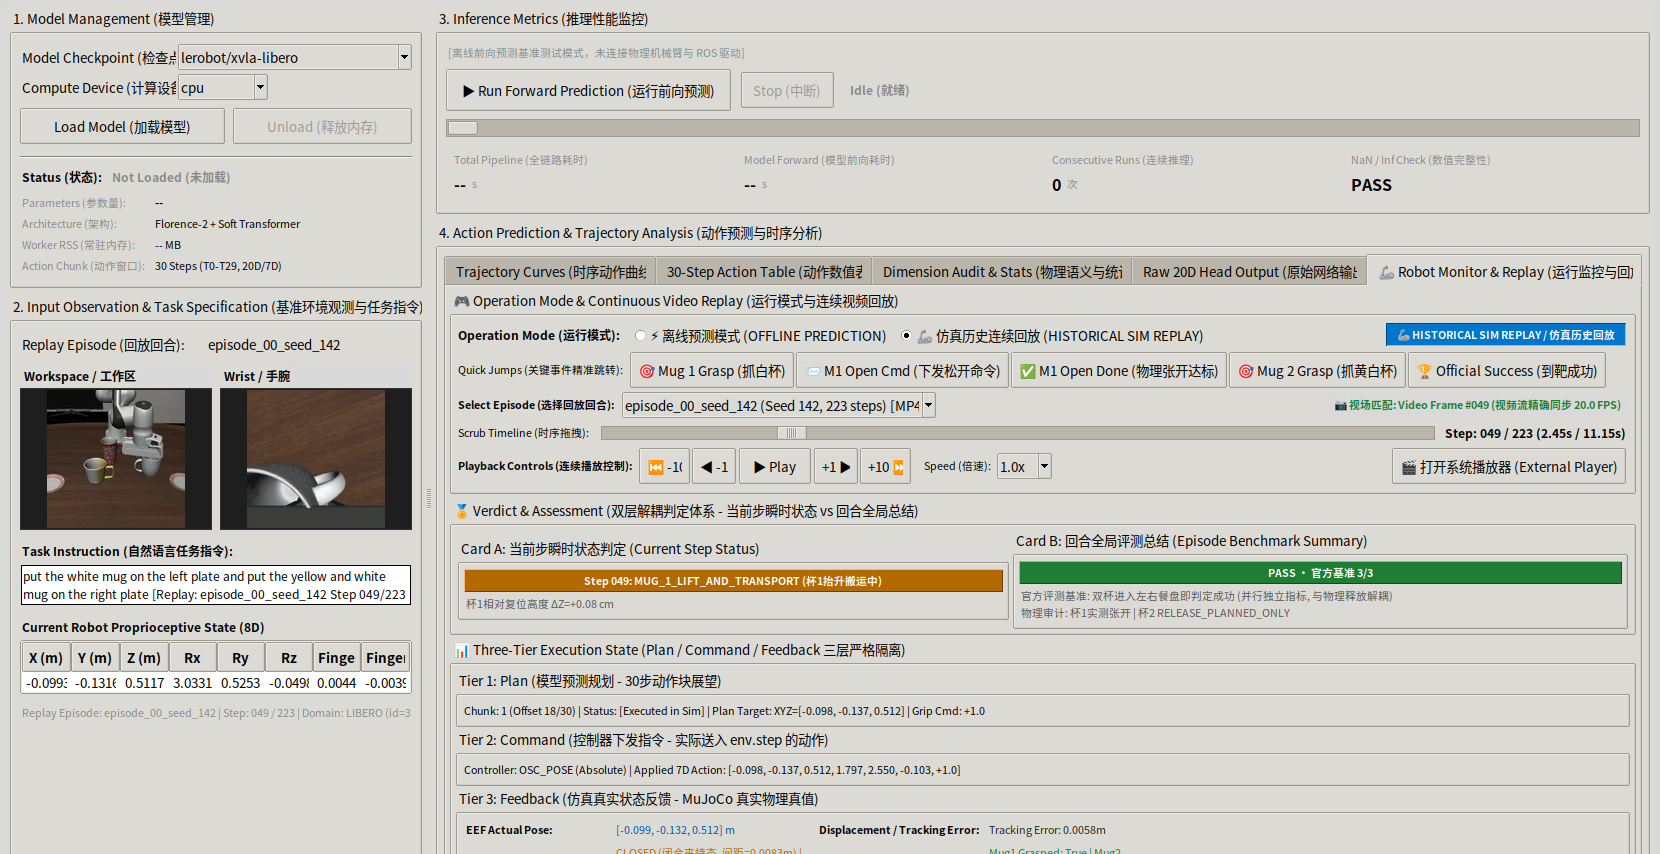
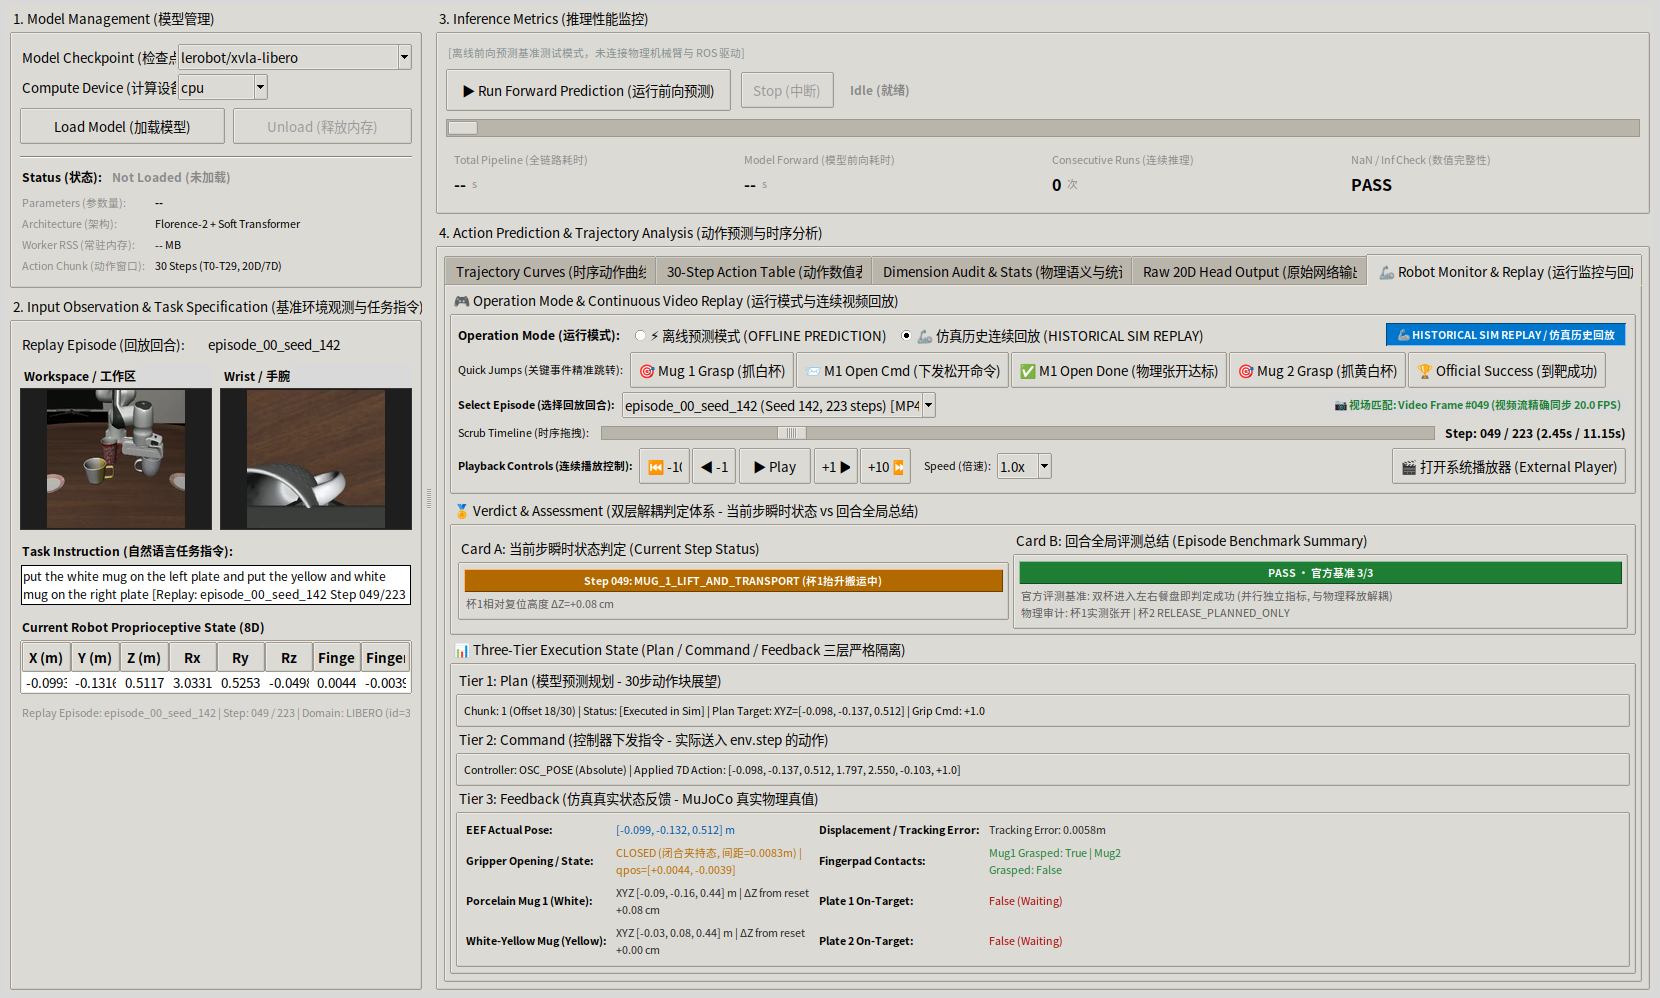
docs: complete Task 019 R1 review evidence

diff --git a/manifests/publication_manifest.md b/manifests/publication_manifest.md
@@ -7,8 +7,8 @@
 - **发布工程命名空间**：`ai-learning/vla-validation-records`
 - **GitHub 归档仓库**：`Crazypsy92/vla-validation-records`
 - **归档范围**：Task 010 ～ Task 019 完整技术链条（含 Task 019 连续视频回放与可信时序显示）
-- **白名单发布文件总数**：114 个
-- **总归档体积**：6383.36 KB
+- **白名单发布文件总数**：115 个
+- **总归档体积**：6407.27 KB
 - **脱敏合规性审查**：
   - [x] 无任何绝对路径 (`~/projects/...` / Windows 本地盘符) 遗留；
   - [x] 无任何个人访问令牌（PAT）、API Key、密码及未公开凭据；
@@ -17,13 +17,13 @@
 
 ---
 
-## 二、白名单发布文件清单（共 114 项）
+## 二、白名单发布文件清单（共 115 项）
 
 | 任务 | 归档相对路径 | 大小 (Bytes) | SHA256 校验和 | 类别 | 发布说明 |
 |:---:|---|:---:|:---:|:---:|---|
 | **General** | `.gitignore` | 357 | `2c4084d6d8b90c9c...` | Config | 发布归档文件 |
-| **General** | `README.md` | 13333 | `616eba6e85f405a2...` | Config | Task 019 复审归档 |
-| **General** | `TASKS.md` | 4193 | `71ca896e2f565aa6...` | Config | Task 019 复审归档 |
+| **General** | `README.md` | 13388 | `765b0da89778001f...` | Config | Task 019-R1 复审 |
+| **General** | `TASKS.md` | 4235 | `fda000723748f471...` | Config | Task 019-R1 复审 |
 | **Docs** | `docs/VLA_Project_Work_Roadmap.md` | 66491 | `89f5e4820bfc2f38...` | Report | 发布归档文件 |
 | **Docs** | `docs/remote_task_relay.md` | 4515 | `36ca245be0f78903...` | Report | 发布归档文件 |
 | **Docs** | `docs/task010_smolvla_baseline.md` | 14431 | `f3c810fe6908ec68...` | Report | 发布归档文件 |
@@ -41,7 +41,7 @@
 | **Docs** | `docs/task018_grasp_monitor_and_release.md` | 13998 | `5e2f7836596c751d...` | Report | 发布归档文件 |
 | **Docs** | `docs/task018_grasp_monitor_and_release_acceptance.md` | 6326 | `e6bd556827557469...` | Report | 发布归档文件 |
 | **Docs** | `docs/task018_review_fixes.md` | 14461 | `231e554ffdbbd17f...` | Report | 发布归档文件 |
-| **Task 019** | `docs/task019_replay_video.md` | 3303 | `0d8add22694bcb5d...` | Report | Task 019 复审归档 |
+| **Task 019** | `docs/task019_replay_video.md` | 3353 | `643f4df0f170da29...` | Report | Task 019-R1 复审 |
 | **Docs** | `docs/vla_input_output_analysis.md` | 10447 | `69653de0c14fd5b5...` | Report | 发布归档文件 |
 | **task015** | `evidence/task015/action_curves_sample01.png` | 14586 | `66c31e36f0ef6ef2...` | Evidence | 发布归档文件 |
 | **task017** | `evidence/task017/episode_seed_100_final.png` | 71331 | `8bfe4fc36e45e20c...` | Evidence | 发布归档文件 |
@@ -126,13 +126,14 @@
 | **Task 019** | `results/task019/screenshots/05_replay_step176_mug2_grasp.png` | 167936 | `5f62062c0a51f138...` | Evidence | 发布归档文件 |
 | **Task 019** | `results/task019/screenshots/06_replay_step223_terminal_success.png` | 167936 | `02e312b4fbd61735...` | Evidence | 发布归档文件 |
 | **General** | `tasks/templates/task_template.md` | 1373 | `9be0d877ae235fa0...` | Config | 发布归档文件 |
-| **Task 019** | `evidence/task019/review_offline.png` | 319875 | `56ba1205ce011006...` | Evidence | Task 019 复审归档 |
-| **Task 019** | `evidence/task019/review_seed142_step049.png` | 337976 | `9a0272ac9d50fa6a...` | Evidence | Task 019 复审归档 |
-| **Task 019** | `evidence/task019/review_seed142_step097.png` | 365337 | `44869856df6e7534...` | Evidence | Task 019 复审归档 |
-| **Task 019** | `evidence/task019/review_seed142_step106.png` | 367899 | `49ba0579d1ab992c...` | Evidence | Task 019 复审归档 |
-| **Task 019** | `evidence/task019/review_seed142_step176.png` | 368155 | `cf8aaac8e71ad4d5...` | Evidence | Task 019 复审归档 |
-| **Task 019** | `evidence/task019/review_seed142_step223.png` | 364358 | `ce94a9333ae5d737...` | Evidence | Task 019 复审归档 |
-| **Task 019** | `results/task019/metrics/gui_review.json` | 1578 | `93a15a567dabc9b8...` | Evidence | Task 019 复审归档 |
-| **Task 019** | `results/task019/metrics/gui_tests.log` | 1190 | `eed11dc2d2464c57...` | Evidence | Task 019 复审归档 |
-| **Task 019** | `results/task019/metrics/source_files.json` | 1290 | `c47c37411836f5e1...` | Evidence | Task 019 复审归档 |
+| **Task 019** | `evidence/task019/review_offline.png` | 319875 | `56ba1205ce011006...` | Evidence | Task 019-R1 复审 |
+| **Task 019** | `evidence/task019/review_seed142_step049.png` | 361251 | `1ee32452007beeb5...` | Evidence | Task 019-R1 复审 |
+| **Task 019** | `evidence/task019/review_seed142_step097.png` | 365162 | `4cd0067d88cb5f57...` | Evidence | Task 019-R1 复审 |
+| **Task 019** | `evidence/task019/review_seed142_step106.png` | 367695 | `aacac8f5cfa46e60...` | Evidence | Task 019-R1 复审 |
+| **Task 019** | `evidence/task019/review_seed142_step176.png` | 366590 | `6f8f2c448b6128ee...` | Evidence | Task 019-R1 复审 |
+| **Task 019** | `evidence/task019/review_seed142_step223.png` | 362677 | `b824bad76ab1c6b8...` | Evidence | Task 019-R1 复审 |
+| **Task 019** | `results/task019/metrics/gui_review.json` | 1955 | `bfc5d6bd79af4316...` | Evidence | Task 019-R1 复审 |
+| **Task 019** | `results/task019/metrics/gui_tests.log` | 1190 | `3cbe75a9580f322f...` | Evidence | Task 019-R1 复审 |
+| **Task 019** | `results/task019/metrics/source_files.json` | 1703 | `63e978eab5d4e260...` | Evidence | Task 019-R1 复审 |
+| **Task 019** | `docs/task019_r1_repair.md` | 3895 | `34d4121c5763f558...` | Report | Task 019-R1 复审 |
 

diff --git a/docs/task019_r1_repair.md b/docs/task019_r1_repair.md
@@ -1,0 +1,42 @@
+# Task 019-R1 · 回放数据可信度与桌面显示修复
+
+Issue #3 的本轮返修材料已就绪，正式验收待用户审核。Task 020 尚处于准备阶段。
+
+## 问题与整改
+
+- 旧证据由 `generate_task019_artifacts.py` 的静态示意渲染器生成。其左侧状态表与右侧遥测使用不同字段，且第 49 和 176 步的 `18.7 cm`、`16.2 cm` 直接写在脚本里，**原始日志无法验证这两项数字**。现有生成入口改为捕获实际运行的 Workbench 窗口。
+- 回放索引从选中的 Episode 读取 `events.jsonl`。第 0 步使用 reset，后续使用对应的 step。左侧状态表和 Tier 3 读取该事件的同一份 `robot_state`。XYZ 是 MuJoCo 世界坐标系下的夹爪控制点位置，单位米。末端姿态由 MuJoCo 世界参考系下的 xyzw 四元数转为旋转向量，单位弧度。双指各自的滑动关节 qpos 以米记录。顶部回放标识与 Episode 来源同时更新，回到离线模式恢复原样本。
+- 物体当前抬升按 `100 × (z[step] − z[reset])` 计算，Z 取同一杯体在 MuJoCo 世界坐标系的高度，结果单位厘米。Seed 142 白杯第 49 步约 +0.08 cm，黄白杯第 176 步约 +0.03 cm。Task 018 的约 9.47 cm / 9.67 cm 是抓持期间的峰值，原指标和记录照原保留。
+- 回放依次解码三段真实录像的 667 帧，并核对 20 FPS 时间戳、双视角和控制步号。归档包括每个被回放的 MP4 的相对路径、文件大小和 SHA-256。
+- 图像和遥测使用同一控制步。报告保留这个功能结论。现有证据未测量端到端显示延迟。
+
+## R1 验收矩阵
+
+| 编号 | 结果 | 证据 |
+| --- | --- | --- |
+| R1-01 | PASS | 在真实 Tk 窗口核对 Seed 142 的 49、97、106、176、223 步全部 8 个字段。再切换到 Seed 143，核对复位和第 49 步，以及返回离线样本。见 GUI 记录。 |
+| R1-02 | PASS | 三个指定 JSON 可标准解析，发布清单 Markdown 为 UTF-8 且无 NUL。 |
+| R1-03 | PASS | 发布清单的大小与 SHA-256 以提交文件逐项复核。 |
+| R1-04 | PASS（WSLg） | Windows 主机上实际启动 Workbench。六张窗口截图覆盖离线及五个关键步。使用系统中文字体，状态行和八列均可见。 |
+| R1-05 | PASS | 当前步 ΔZ 公式、坐标、单位和两个采样点已记录。旧示意值标记为不可验证。 |
+| R1-06 | PASS | 三段实际 MP4 的文件大小、SHA-256、帧率、时长与步号映射见元数据。 |
+| R1-07 | PASS | 删除缺乏测量依据的定量延迟结论，保留同一步更新。 |
+| R1-08 | PASS（源码快照） | 报告链接已校正。源码快照及相对基线的 Git 差异见下。 |
+| R1-09 | PARTIAL | 界面回归 7 项通过，桌面播放与跨回合核验通过。新一轮模型前向和系统外部播放器启动未执行。 |
+
+## 源码追溯
+
+Workbench 工作目录没有原始 Git 历史。在独立的本地源码快照仓库，以与归档提交 `897e9a1` 的已记录哈希一致的七个文件建立基线 `4fdd77db0014aab16ce2ee770e8fb9d2fc055ed8`，本轮源码提交为 `9e1a036d8ec26c989d95ee40cb9cbbaff898c4c5`。这是源码实施快照，历史归档提交 `1b87845` 及本次证据归档各有其独立 Git 历史。证据归档仅包含报告、验证结果与选定截图。
+
+```text
+workbench/tests/capture_task019_review.py     |  48 ++-
+ workbench/tests/generate_task019_artifacts.py | 497 +-------------------------
+ 2 files changed, 42 insertions(+), 503 deletions(-)
+```
+
+- [Task 019 技术报告](task019_replay_video.md)
+- [本体与跨回合桌面复核](../results/task019/metrics/gui_review.json)
+- [界面回归日志](../results/task019/metrics/gui_tests.log)
+- [原始视频元数据](../results/task019/metrics/video_metadata.json)
+- [源码文件及校验和](../results/task019/metrics/source_files.json)
+- [六张复审截图](../evidence/task019/)

diff --git a/TASKS.md b/TASKS.md
@@ -10,7 +10,7 @@
 | --- | --- | --- | --- | --- |
 | Task017-R2 | 完整回合证据归档，明确抓持判据例外 | [#1](https://github.com/Crazypsy92/vla-validation-records/issues/1) | **ACCEPTED_WITH_LIMITATIONS / 已关闭** | 官方任务 3/3 验收；抓持与释放例外转 Task018 |
 | Task018 | **夹爪抓放审计与 VLA Workbench 三层监控回放** | [#2](https://github.com/Crazypsy92/vla-validation-records/issues/2) | **ACCEPTED_WITH_FOLLOWUP / 已关闭** | 20项报告归档；截图暴露的画面因果性与模式语义转 Task019 |
-| Task019 | **真实 LIBERO 视频连续回放 + 当前/最终状态与帧时序纠偏** | [#3](https://github.com/Crazypsy92/vla-validation-records/issues/3) | **REVIEW / 整改后待复审** | 已提交本体状态、时序、归档及 Windows WSLg 窗口证据，等待正式验收 |
+| Task019 | **真实 LIBERO 视频连续回放 + 当前/最终状态与帧时序纠偏** | [#3](https://github.com/Crazypsy92/vla-validation-records/issues/3) | **REVIEW / 整改后待复审** | 已提交本体状态、时序、归档及 Windows WSLg 窗口证据，等待正式验收 · [R1 报告](docs/task019_r1_repair.md) |
 
 ## 历史归档
 

diff --git a/README.md b/README.md
@@ -111,3 +111,5 @@ flowchart LR
 
 - **发布白名单清单与校验结果**：[publication_manifest.md](manifests/publication_manifest.md)
 - **机器可读元数据清单**：[publication_manifest.json](manifests/publication_manifest.json)
+
+[Task 019-R1 返修报告](docs/task019_r1_repair.md)

diff --git a/docs/task019_replay_video.md b/docs/task019_replay_video.md
@@ -34,3 +34,5 @@
 DISPLAY=:0 .venv_xvla/bin/python -m unittest workbench.tests.test_ui_headless -v
 DISPLAY=:0 .venv_xvla/bin/python workbench/tests/capture_task019_review.py
 ```
+
+[Task 019-R1 返修报告](task019_r1_repair.md)
